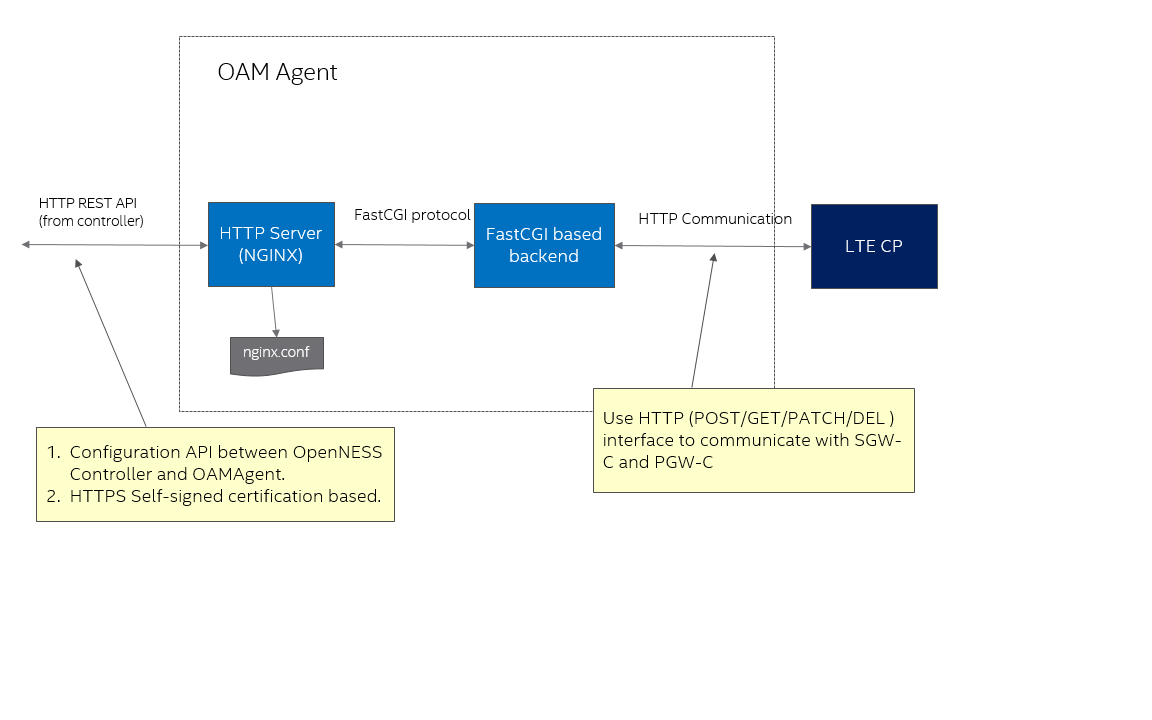
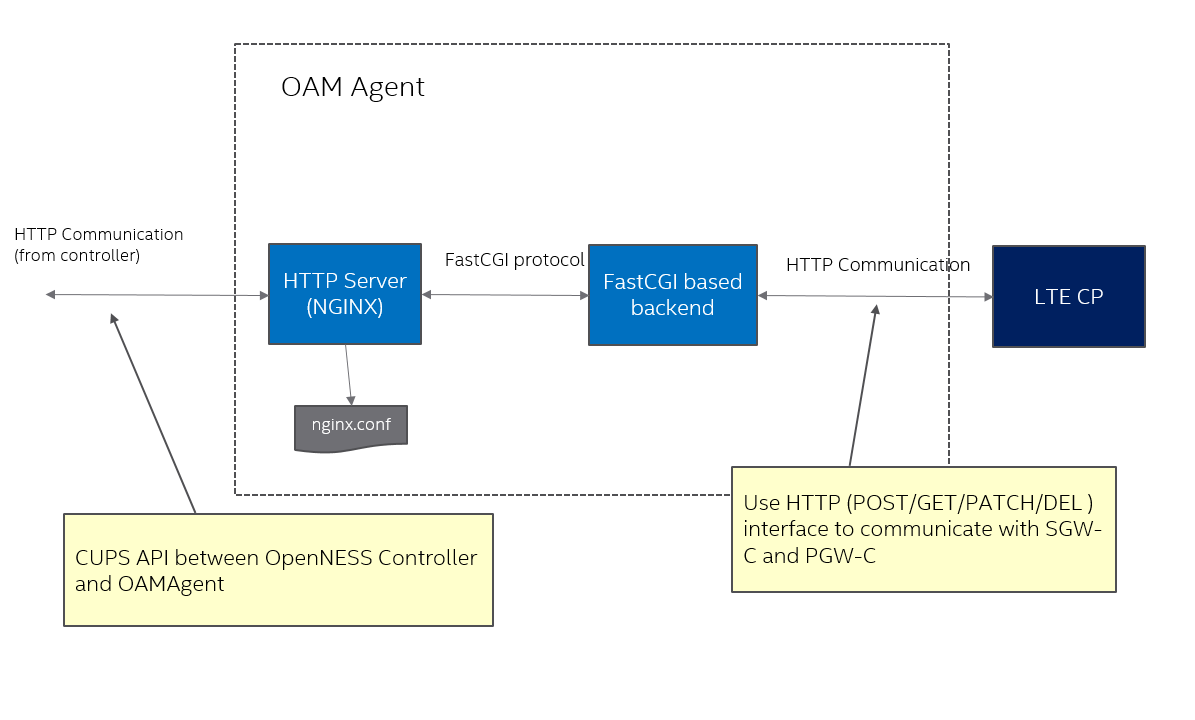
update architecture diagram for removing https

diff --git a/lte/backend/README.md b/lte/backend/README.md
@@ -46,7 +46,7 @@ Func:main(Line:120)OAMAgent Backend running ...
 ## Test
 
 In the test directory , there two types of tests:
-- API Test: Provides CURL based test scripts for MEC Controller  API testing
+- API Test: Provides CURL based test scripts for MEC Controller CUPS  API testing
 - Unit Test: Provides unit test and code coverage  
 - The details refer to README.md in the folders: api_test and unit_test. 
 
@@ -65,11 +65,11 @@ add_definitions(-DCUPS_API_INT64_TYPE)
 - Run oamagent as guide
 - Limitation: Actually on INT_TEST mode, all the user planes are pre-configured by json files in json_payload. 
   So it is not flexible and just for some basic interface testing as below:
-  GET ALL:       user planes configuration are from PgwGetAllRspData.json and SgwGetAllRspData.json. And they can be changed according to test requirements.
-  GET by ID:     must comply with : PgwGetOneRspData.json and SgwGetOneRspData.json。And they can be changed according to test requirements.
-  Delete by ID:  hardcoded success response . No corresponding json file
-  POST:  hardcoded success only for user plane id 5. No corresponding json file
-  PATCH:  hardcoded success only for user plane id 5. No corresponding json file
+  - GET ALL:       user planes configuration are from PgwGetAllRspData.json and SgwGetAllRspData.json. And they can be changed according to test requirements.
+  - GET by ID:     must comply with : PgwGetOneRspData.json and SgwGetOneRspData.json。And they can be changed according to test requirements.
+  - Delete by ID:  hardcoded success response . No corresponding json file
+  - POST:  hardcoded success only for user plane id 5. No corresponding json file
+  - PATCH:  hardcoded success only for user plane id 5. No corresponding json file
 
   
  

diff --git a/lte/README.md b/lte/README.md
@@ -28,7 +28,7 @@ Figure 1. OAMAgent Architecture.
 
 ## Installation, Build and Run
 
-- Setup, Generate Self-signed certification files and Run NGINX according to readme in sub-directory: http
+- Setup, Configure and Run NGINX according to readme in sub-directory: http
 - Setup, Build and Run HTTP based backend according to readme in the sub-directory: backend
 - Notice: All installation scripts are based and verified on CentOS 7.6 x86_64 operating system. 
 
